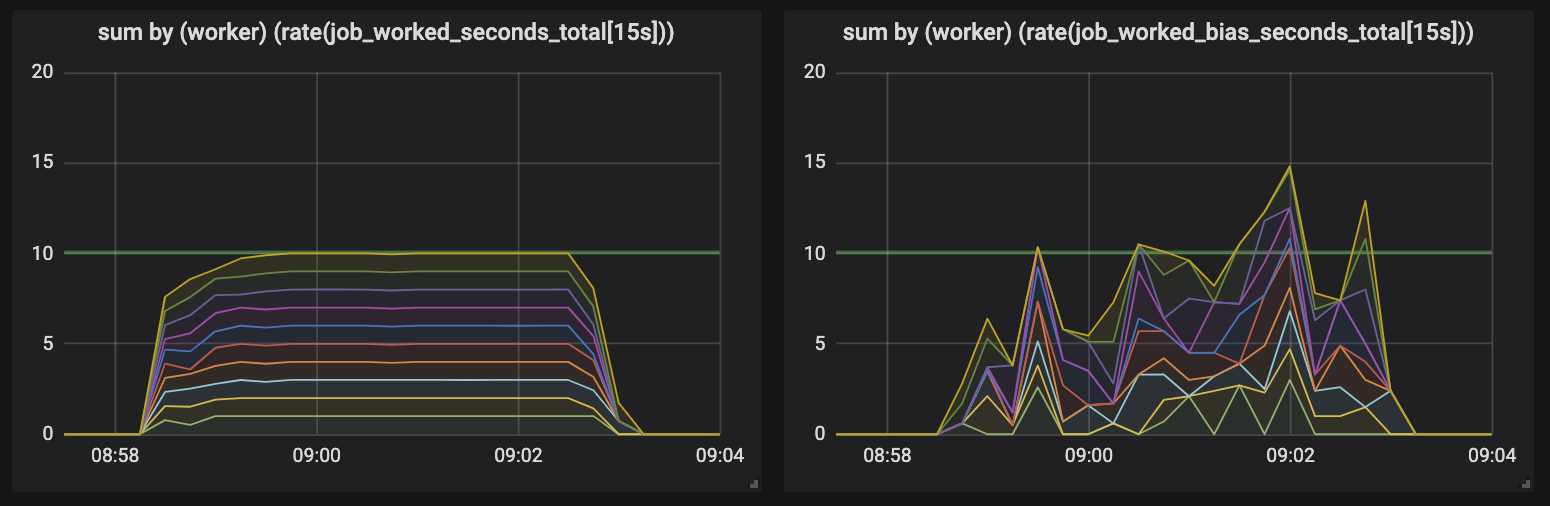
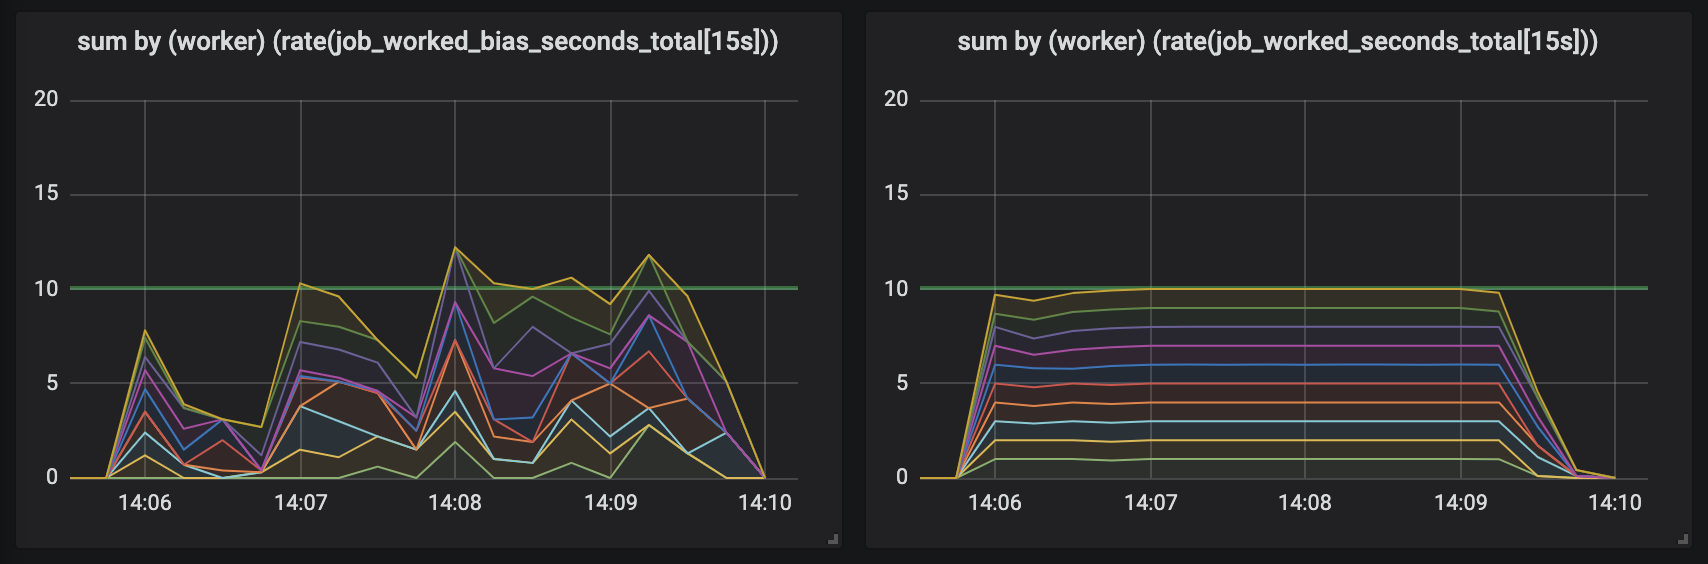
fixup: apply Pete's feedback

diff --git a/_posts/2019-04-19-incremental-measurement.md b/_posts/2019-04-19-incremental-measurement.md
@@ -1,54 +1,52 @@
 ---
 layout: post
-title:  "Avoid time-of-measurement bias using Prometheus"
+title:  "Avoid time-of-measurement bias with Prometheus"
 date:   "2019-04-19 11:00:00 +0000"
+toc:    true
 tags:
   - prometheus
   - observability
-
 audience: Basic to advanced Prometheus users who use metrics in their work
 goals: Understand time-of-measurement bias, know how a MetricTracer might help
 links:
+  - https://gist.github.com/lawrencejones/f419e478106ab1ecbe007e7d9a9ca937
   - https://snapshot.raintank.io/dashboard/snapshot/PFfWQ21fQgeQkF7FGhR4zsiOGOnNFpOr?orgId=2
-  
 excerpt: |
   TODO
 
 ---
 
-Most applications run a 'worker tier' or some deployment that processes
-asynchronous work. The work can be varied, from jobs that take just milliseconds
-to large hour-long batches. The only common theme is these jobs are essential
-for the health of the system, often doing the heavy lifting that makes your
-product worth anyone's time.
+Most applications consist of a web server which handles live traffic and some
+sort of worker tier that can process work asynchronously. There's a lot of great
+advice on how to measure the health of live web traffic, and the community
+continues to develop tools like Prometheus that can help support this
+instrumentation.
 
-It's important to measure systems like this to find issues before they affect
-users and to debug them when they do. When something breaks and you suspect it's
-a problem in the queue, one of the most important questions you can ask is:
+But looking past web traffic, our workers are often as- if not more- critical to
+service health. We should care about and measure these too, but there's little
+guidance about how to do so while avoiding common pitfalls.
 
-> What are the workers doing- what jobs are they working?
+This post explores one of the pitfalls often found when measuring async work,
+using the example of a production incident where despite having metrics it was
+not possible to accurately determine what workers were doing. The metric
+implementation had created a bias so significant that the metrics were outright
+lying, rendering them unusable.
 
-When investigating an incident involving workers like this I found myself
-totally unable to answer this question despite workers exposing metrics about
-their activity. Digging deeper, it became clear that the instrumentation was
-subject to a bias so significant that measurements were actively misleading.
-
-This post explores what and how we should measure this system so we can properly
-answer these questions. The most simple implementation- the one I fought with
-during the incident- will give results that are worse than useless. We'll
-understand this bias through experimentation and conclude with an approach that
-can be used to ensure reliable measurements.
+We'll see how to adjust the implementation to provide accurate measurements, and
+conclude with an open-source reference implementation of a
+[prometheus-client-tracer](https://github.com/lawrencejones/prometheus-client-tracer-ruby)
+you can use in your own applications.
 
 ## The incident
 
-Alerts were firing about dropped requests and the HTTP dashboard confirmed it-
-queues were building and requests timing out. About two minutes later pressure
-flooded out the system and normality was restored.
+Alerts were firing for increased HTTP error rate, and the dashboards confirmed
+it- queues were building and requests timing out. About two minutes later the
+queues cleared and normality was restored.
 
 Looking closer, our API servers had stalled waiting on the database to respond,
-causing all activity to grind to an abrupt halt. The prime suspect wielding
-enough capacity to hit the database like this was the asynchronous worker tier,
-so you naturally ask what on earth were the workers doing?
+causing all activity to grind to an abrupt halt. Given most database heavy work
+happens in the asynchronous worker tier, the workers were the obvious prime
+suspect. The natural follow-up is to ask what on earth the workers were doing?
 
 The workers expose a Prometheus metric that tracks how they spend their time. It
 looks like this:
@@ -62,7 +60,7 @@ job_worked_seconds_total{job}
 By tracking the sum of seconds spent working each job type, the rate at which
 the metric changes can identify how much worker time has been consumed. An
 increase of 15 over an interval of 15s implies a single continuously occupied
-worker (one second for every second that elaspes) while an increase of 30 would
+worker (one second for every second that elapses) while an increase of 30 would
 imply two workers, etc.
 
 Graphing worker activity during this incident should show us what we were up to.
@@ -76,13 +74,14 @@ marked with an appropriately alarming red arrow:
   </figcaption>
 </figure>
 
-As the person debugging this mess, it hurt me to see the graph flatline at
-exactly the time of the incident. I'd already checked the logs so I knew the
-workers were busy- not only that, but the large blue spike at 16:05? It's time
-spent working webhooks, for which we run twenty dedicated workers. How could ten
-single threaded workers spend 45s per second working?
+As the person debugging this mess, it hurt to see the graph drop to minimal
+activity at the exact time of the incident. I'd already checked the logs so I
+knew the workers were busy- not only that, but the large blue spike at 16:05?
+It's time spent working webhooks, for which we run twenty dedicated workers. How
+could twenty single threaded workers spend 45s per second working, as the graph
+implies?
 
-## Where it all went wrong
+## Where it went wrong
 
 The incident graph is lying to us by both hiding and over-reporting work
 depending on where you take the measurement. Understanding why requires us to
@@ -90,8 +89,8 @@ consider the implementation of the metric tracking and how that interacts with
 Prometheus taking the measurements.
 
 Starting with how workers take measurements, we can sketch an implementation of
-the worker process below. Notice that workers will only update the metric after
-the job has finished running.
+the worker process below. Notice that workers will only update the metric _after
+the job has finished running_.
 
 ```ruby
 class Worker
@@ -113,10 +112,15 @@ worker every 15s to record the metric values at the request time. As workers
 constantly update the job worked metric, over time we can plot how this value
 has changed.
 
-We start seeing our over/under-reporting issue when jobs take longer than the
-interval Prometheus scrapes (15s). Imagine a job that takes 1m to execute:
-Prometheus will scrape the worker four times in that interval, but the metric
-value will only be updated after the fourth scrape.
+We start seeing our over/under-reporting issue whenever jobs execute across a
+scrape boundary, where scrapes happen every 15s. Imagine a job that begins
+execution 5s before a scrape and finishes 1s after- in total, the job executes
+for 6s, but that 6s is only visible in the measurement taken after the scrape,
+despite 5s of work happening before that point.
+
+This effect becomes even more exaggerated when jobs take longer than the scrape
+interval (15s). During the execution of a 1m job, Prometheus will scrape the
+worker four times, but the metric is only updated after the fourth scrape.
 
 Drawing a timeline of worker activity can make it clear how the moment we update
 our metric affects what Prometheus sees. In the diagram below, we map the
@@ -135,18 +139,32 @@ second. If every worker starts working long jobs, we'll report no work being
 done until they end, even if that's hours later.
 
 To demonstrate this effect, I created an experiment with ten workers working
-jobs of varying duration half-normally distributed between 0.1s and 30s (see
+jobs of varying duration half-normally distributed between 0.1s and some upper
+duration boundary (see
 [seed-jobs](https://gist.github.com/lawrencejones/f419e478106ab1ecbe007e7d9a9ca937#file-seed-jobs)).
-Despite each worker performing a constant rate of work, graphing the job worked
-metric results in a spiky graph that jumps above and below the real measurement
-of 10s per second of work:
+Here are three graphs of reported worker activity, each with increasing job
+durations. As jobs become longer, the bias becomes more noticeable, until in the
+third graph we jump above and below the real measurement (10s of work per
+second) by a huge degree.
 
 <figure>
-	<a target="_blank" href="https://snapshot.raintank.io/dashboard/snapshot/r9cBxt26Bs1PBI3mqfTS72Cf55dSmeTn">
-  	<img src="{{ "/assets/images/long-tasks-experiment-bias.png" | prepend:site.baseurl }}" alt="work by worker with biased measurement"/>
-	</a>
+  <img src="{{ "/assets/images/long-tasks-experiment-bias-0_1-1_0.png" | prepend:site.baseurl }}" alt="work by worker with jobs between 0.1s and 1s in duration"/>
   <figcaption>
-    Work by worker with biased measurement- under and over reporting
+    Jobs up-to 1s in duration
+  </figcaption>
+</figure>
+
+<figure>
+  <img src="{{ "/assets/images/long-tasks-experiment-bias-0_1-15_0.png" | prepend:site.baseurl }}" alt="work by worker with jobs between 0.1s and 15s in duration"/>
+  <figcaption>
+    Jobs up to 15s in duration
+  </figcaption>
+</figure>
+
+<figure>
+  <img src="{{ "/assets/images/long-tasks-experiment-bias-0_1-30_0.png" | prepend:site.baseurl }}" alt="work by worker with jobs between 0.1s and 30s in duration"/>
+  <figcaption>
+    Jobs up to 30s in duration
   </figcaption>
 </figure>
 
@@ -172,14 +190,14 @@ workers to update metrics whenever Prometheus scrapes them, just before they
 return scrape results, then we'll ensure Prometheus is always up-to-date with
 on-going activity.
 
-### Introducing... MetricTracer
+### Introducing... Tracer
 
-One solution to the time-of-measurement bias is a `MetricTracer`, an abstraction
+One solution to the time-of-measurement bias is a `Tracer`, an abstraction
 designed to take long-running duration measurements while incrementally updating
 the associated Prometheus metric.
 
 ```ruby
-class MetricTracer
+class Tracer
   def trace(metric, labels, &block)
     ...
   end
@@ -202,7 +220,7 @@ new tracer and ask it to trace the execution of `acquire_job.run`.
 ```ruby
 class Worker
   def initialize
-    @tracer = MetricTracer.new(self)
+    @tracer = Tracer.new(self)
   end
 
   def work
@@ -248,10 +266,9 @@ receives a request, will first call `collect` on all the workers, then have the
 Prometheus client render scrape results. 
 
 Returning to our diagram, this means we update the metric whenever the job ends
-or we receive a scrape. The jobs that span across scrapes contribute fairly on
-either side, as shown by the jobs straddling the 15s scrape time splitting their
-duration evenly. Regardless of the size of our jobs, we've incremented the
-metric by 30s (2 x 15s) for each scrape interval.
+**or** we receive a scrape. The jobs that span across scrapes contribute fairly
+on either side, as shown by the jobs straddling the 15s scrape time splitting
+their duration.
 
 <figure>
   <img src="{{ "/assets/images/long-tasks-diagram-tracer.svg" | prepend:site.baseurl }}" alt="diagram of tracer collection"/>
@@ -265,44 +282,48 @@ exceeded the number of workers we were running and periods of total silence,
 re-running our experiment with ten workers produces a graph that clearly shows
 each worker contributing evenly to the reported work.
 
-
 <figure>
 	<a target="_blank" href="https://snapshot.raintank.io/dashboard/snapshot/r9cBxt26Bs1PBI3mqfTS72Cf55dSmeTn">
   	<img src="{{ "/assets/images/long-tasks-experiment-before-after.png" | prepend:site.baseurl }}" alt="comparison of biased vs tracer results"/>
 	</a>
   <figcaption>
-    Comparison of biased (left) and tracer managed (right) metrics, taken from
-    the same worker experiment
+    Comparison biased (left) and tracer managed (right) metrics, taken from the
+    same worker experiment
   </figcaption>
 </figure>
 
 In comparison to the outright misleading and chaotic graph from our original
 measurements, metrics managed by the tracer are stable and consistent. Not only
 do we accurately assign work to each scrape but we are now indifferent to
-violent worker death: Prometheus will have tracked the metric up until the
-worker disappears, ensuring we don't lose that information if the worker goes
-away.
+violent worker death: Prometheus will have recorded the metric up until the
+worker disappears, ensuring that work doesn't disappear if the worker goes away.
 
-## Can I use this?
+### Can I use this?
 
-TODO
+Yes! The `Tracer` interface is something I've found useful across multiple
+projects and have extracted into a separate Ruby gem,
+[prometheus-client-tracer](https://github.com/lawrencejones/prometheus-client-tracer-ruby).
+If you use the Prometheus client in your Ruby applications, just add
+`prometheus-client-tracer` to your Gemfile then:
 
-Most of the code snippets have been extracted from GoCardless' fork of
-[chanks/que](https://github.com/chanks/que), a Postgres queuing system that has
-been instrumented to the hilt with Prometheus metrics, using a `MetricTracer` to
-ensure accurate accounting of every part of a worker's lifecycle.
+```ruby
+require "prometheus/client"
+require "prometheus/client/tracer"
 
-I've collected some of the code used in this post into a
-[Gist](https://gist.github.com/lawrencejones/f419e478106ab1ecbe007e7d9a9ca937),
-including a full reference implementation of the `MetricTracer`. Any feedback
-or corrections are welcome- reach out on Twitter or [open a
-PR](https://github.com/lawrencejones/blog.lawrencejones.dev).
+JobWorkedSecondsTotal = Prometheus::Client::Counter.new(...)
 
----
+Prometheus::Client.trace(JobWorkedSecondsTotal) do
+  sleep(long_time)
+end
+```
 
-<figure>
-  <img src="{{ "/assets/images/long-tasks-que.png" | prepend:site.baseurl }}" alt="time spent by job class for que"/>
-  <figcaption>
-    Results from production across many workers
-  </figcaption>
-</figure>
+# Final thoughts
+
+I hope this will help people become more aware of how they measure long-running
+tasks, and unveil one of the common issues that occur when doing so. It should
+also be clear that this problem isn't just for asynchronous work- if your HTTP
+requests can get slow, they'll also benefit from using a tracer to track time
+spent working.
+
+As always, any feedback or corrections are welcome- reach out on Twitter or
+[open a PR](https://github.com/lawrencejones/blog.lawrencejones.dev).
